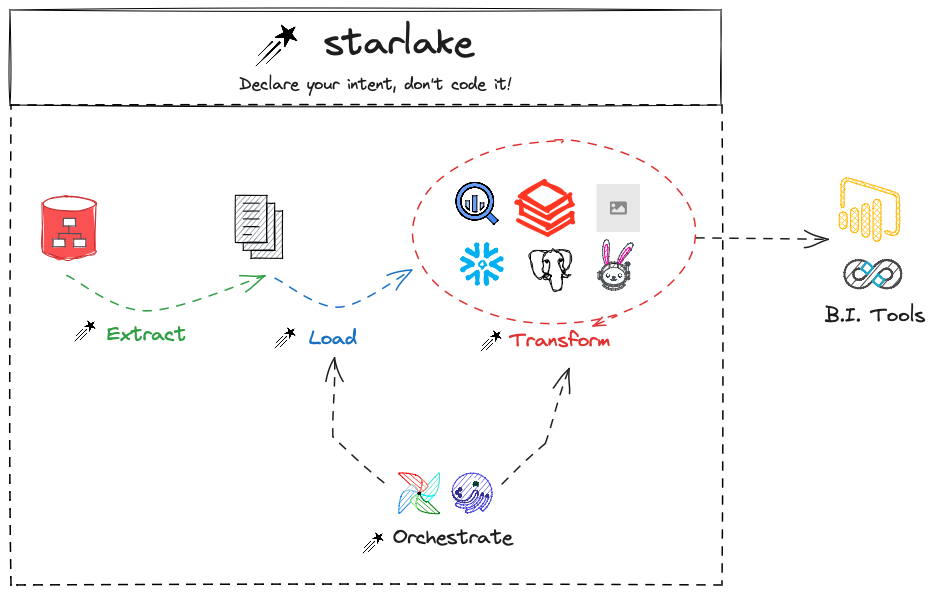
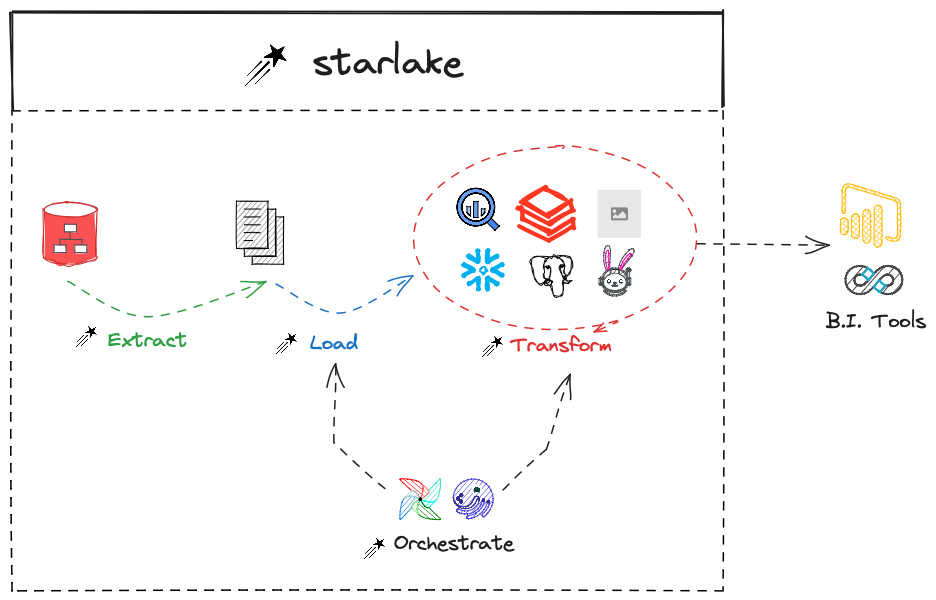
update readme

diff --git a/README.md b/README.md
@@ -2,8 +2,15 @@
 [![Maven Central Starlake Spark 3](https://maven-badges.herokuapp.com/maven-central/ai.starlake/starlake-spark3_2.12/badge.svg)](https://maven-badges.herokuapp.com/maven-central/ai.starlake/starlake-spark3_2.12)
 [![License](https://img.shields.io/badge/License-Apache%202.0-blue.svg)](https://opensource.org/licenses/Apache-2.0)
 
+img[src*='#center'] {
+display: block;
+margin: auto;
+}
 
 # What is Starlake ?
+
+![](docs/static/img/intent.png#center)
+
 Starlake is a declarative text based tool that enables analysts and engineers to extract, load, transform and orchestrate their data pipelines.
 
 ![](docs/static/img/starlake-draw.png)
